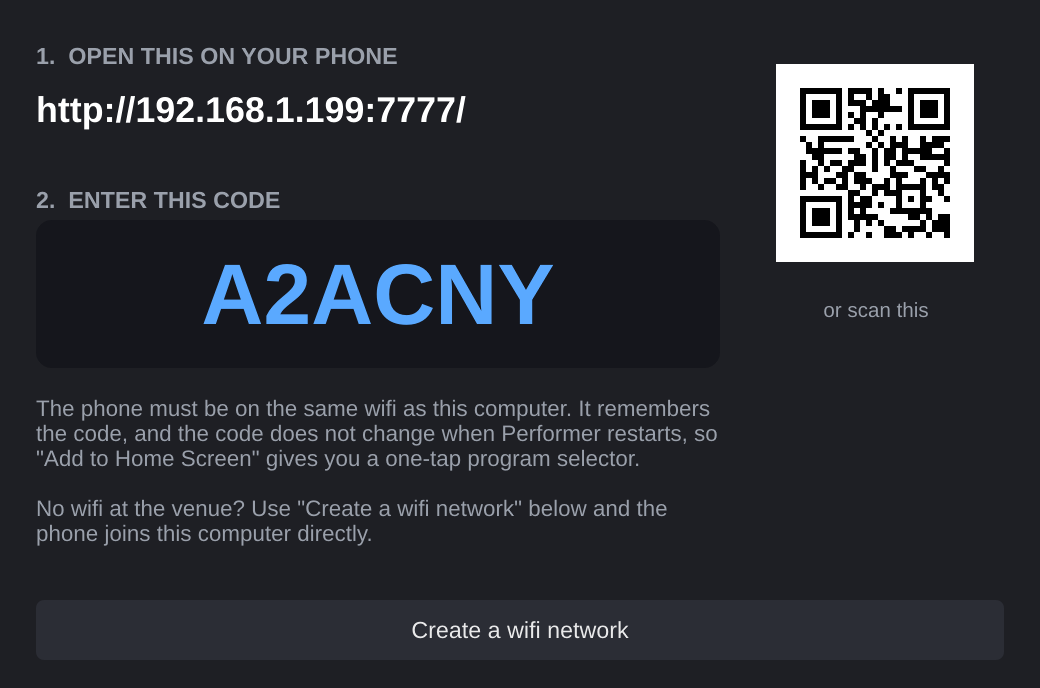
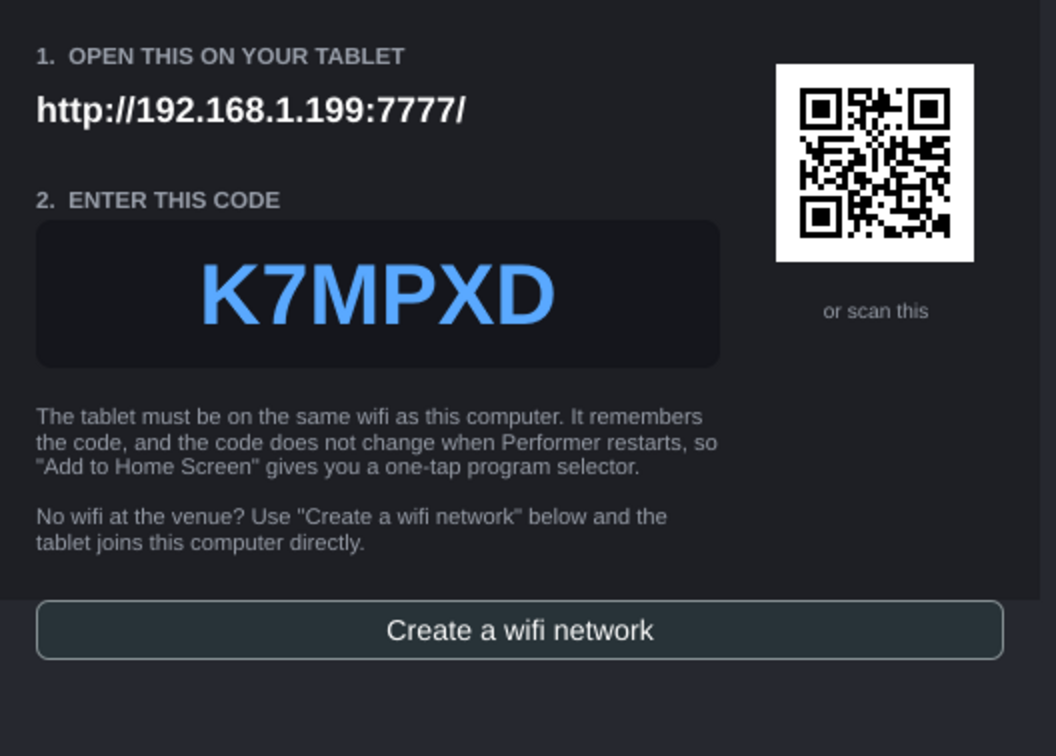
Tablet screenshots: the page as it is now
All of them predated songs and sets. The main one showed the programs with no
tabs above them, because the set list did not exist yet; the control dialog
still said "OPEN THIS ON YOUR PHONE", from before the tablet rename.

New set-list shot leads: the song you are on in large type with what each
keyboard plays, the running order with tempos, PREV/NEXT, the search, and the
songs that are not in the set. The programs view stays as the second image,
now with the tabs visible so it reads as one half of a page rather than the
whole of it.

The dialog was also publishing a working access code and the address it goes
with -- anyone on that network who saw the README could have driven the rig.
Recaptured with a throwaway code.

diff --git a/README.md b/README.md
@@ -137,7 +137,12 @@ plugins, select an input and give it a MIDI device, click a program, press
 **Tablet** in the toolbar starts a small web app on your network, for picking
 programs from a music stand instead of the laptop.
 
-![The web app on a tablet: group filters and the programs of one input](docs/images/tablet-app.png)
+![The tablet set list: the song you are on in large type with what each keyboard plays, the rest of the running order, and a search](docs/images/tablet-setlist.png)
+
+The Programs tab is the same page's other half -- every program on every
+keyboard, grouped, with a GUI button per input:
+
+![The tablet showing the programs of both keyboards, grouped by kind](docs/images/tablet-app.png)
 
 ![The Tablet control dialog](docs/images/tablet-control.png)
 

diff --git a/docs/MANUAL.md b/docs/MANUAL.md
@@ -329,7 +329,11 @@ input with its current program in large type and every program you have set up;
 tap one to switch to it. There is a PANIC button too. Nothing is installed on
 the tablet: it is a web page.
 
-![The web app on a tablet: group filters and the programs of one input](images/tablet-app.png)
+![The tablet set list: the song you are on in large type, the running order, and a search](images/tablet-setlist.png)
+
+Switching to **Programs** shows every program on every keyboard instead:
+
+![The tablet showing the programs of both keyboards, grouped by kind](images/tablet-app.png)
 
 The current program for each input is highlighted, and the big number at the top
 of each block is what a keyboard would send as a Program Change. Tapping a
